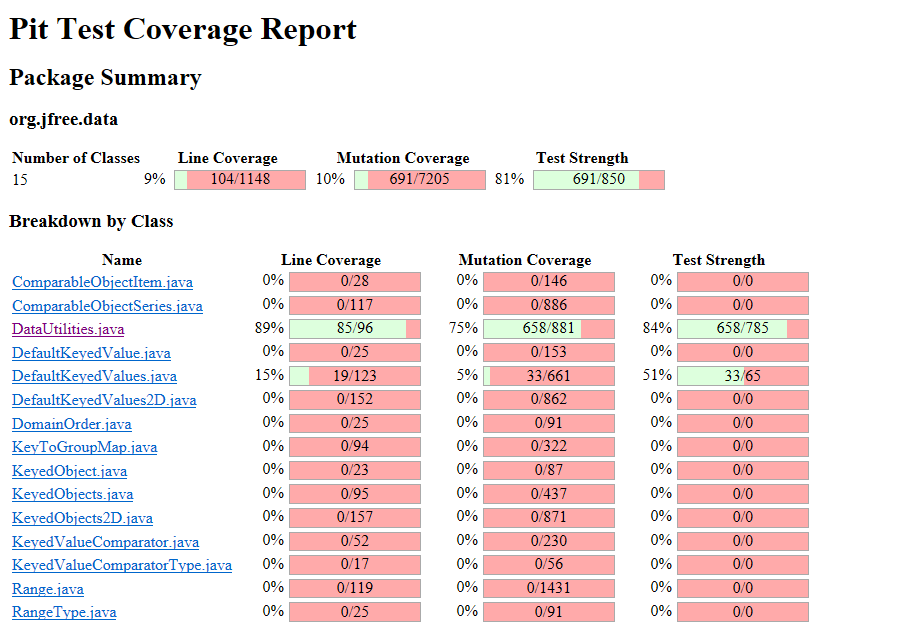
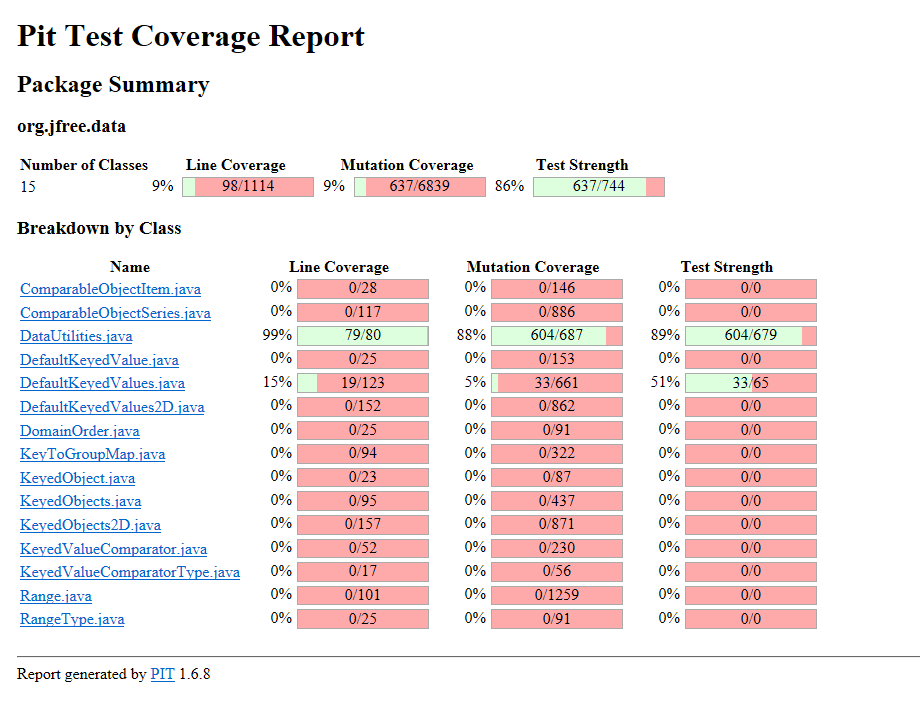
report updates

diff --git a/seng438-a4-25.md b/seng438-a4-25.md
@@ -18,7 +18,7 @@
 
 **Original Coverage for Range.java**
 
-Mutation Coverage: 68%
+Mutation Coverage: 66%
 
 PIT Screenshot:
 
@@ -28,7 +28,7 @@ PIT Screenshot:
 
 **Original Coverage for DataUtilities.java**
 
-PIT Mutation Coverage: 75%
+PIT Mutation Coverage: 88%
 
 Screenshot:
 
@@ -38,21 +38,21 @@ Screenshot:
 
 **Updated Coverage for Range.java**
 
-Mutation Coverage: 68%
+Mutation Coverage: 78%
 
 PIT Screenshot:
 
-<!-- ![initialRange](media/initialRange.png) -->
+![initialRange](media/updatedRange.png)
 
 <br>  
 
 **Updated Coverage for DataUtilities.java**
 
-PIT Mutation Coverage: 75%
+PIT Mutation Coverage: 93%
 
 Screenshot:
 
-<!-- ![initialData](media/initialData.png) -->
+![initialData](media/updatedData.png)
 
 
 
